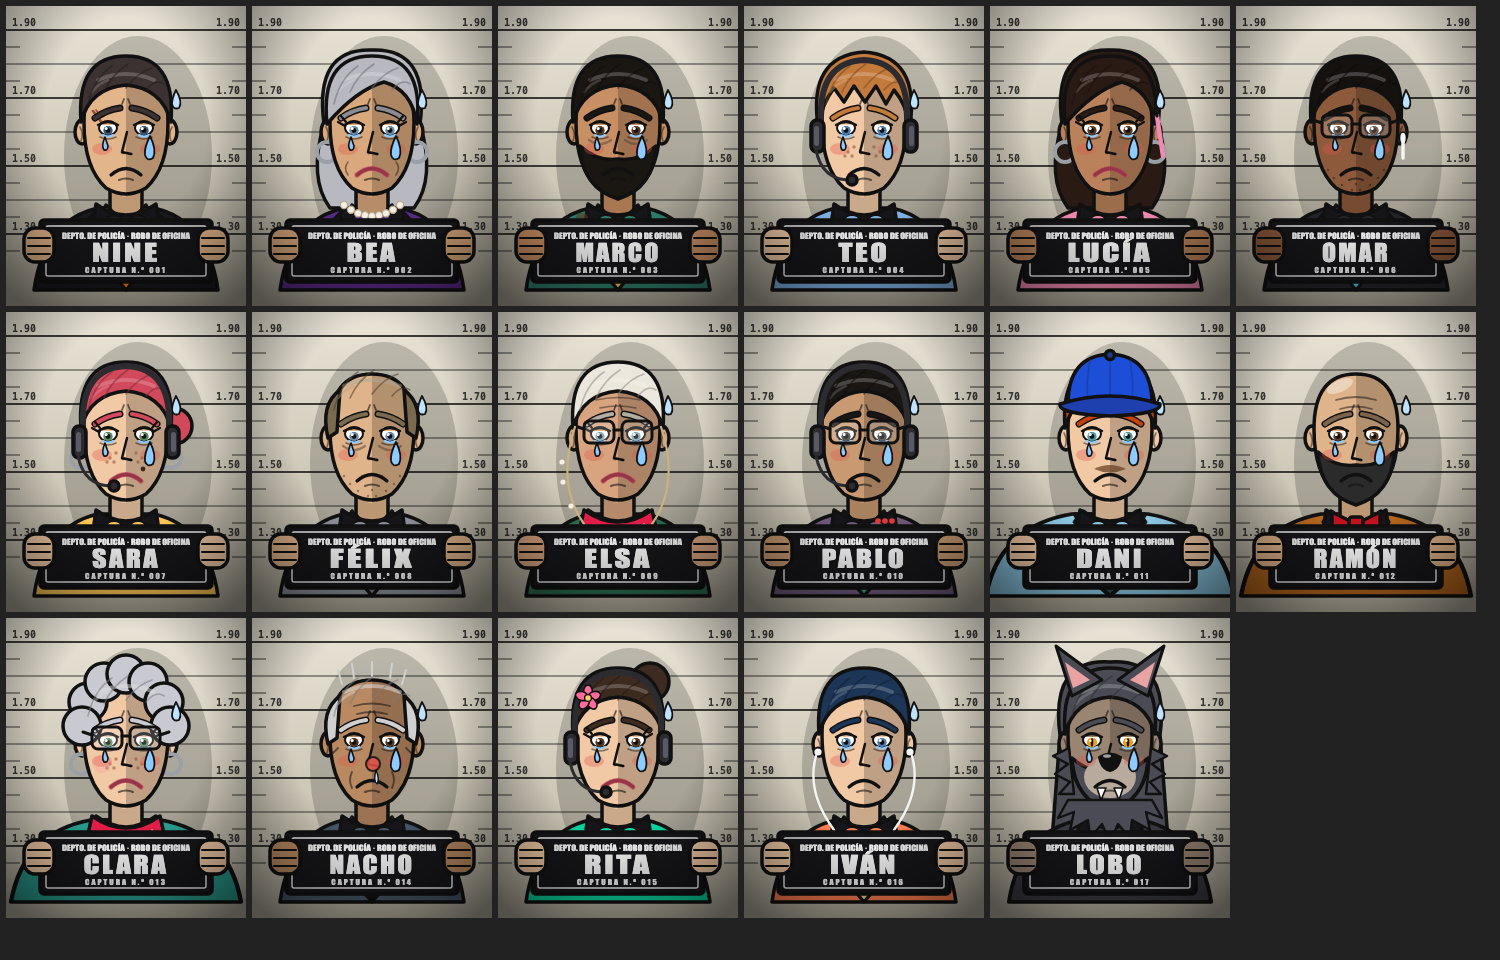
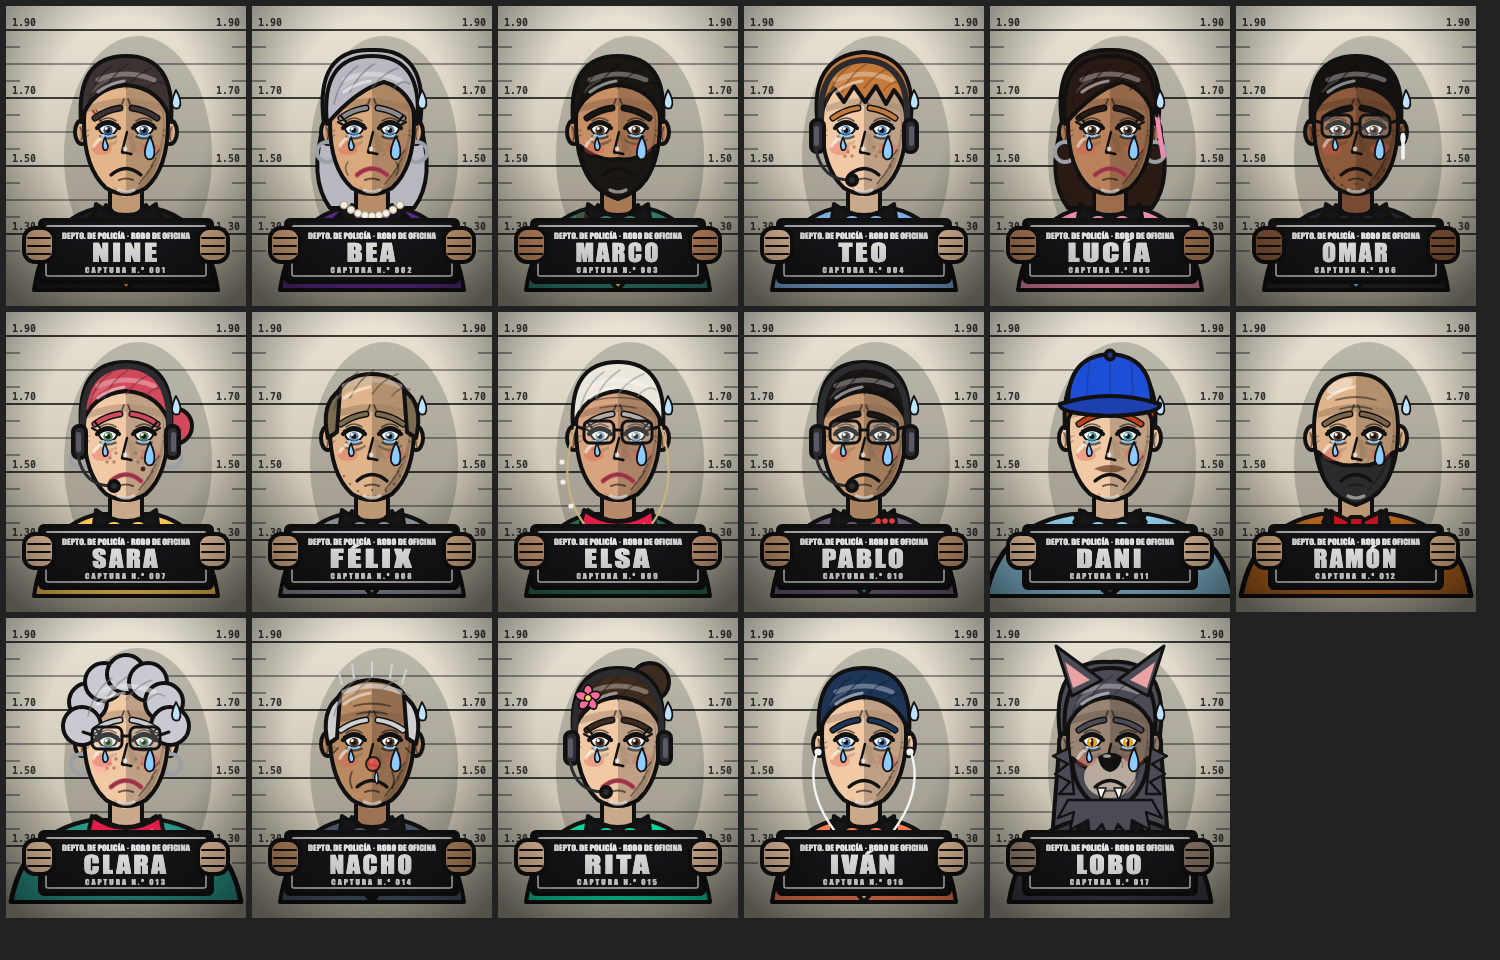
feat(fichaje): estilo cartoon con sombreado a dos tonos, brillos, párpados, rayado y orejas con relieve

diff --git a/src/poster.ts b/src/poster.ts
@@ -70,7 +70,11 @@ function finish(c: Character): string {
   const lips = look.skirt ? `<path d="M85 147 Q100 134 115 147" fill="none" stroke="#c2415a" stroke-width="5" opacity="0.75" stroke-linecap="round"/>` : ''
   const nostrils = `<ellipse cx="97" cy="125" rx="1.8" ry="1.2" fill="#000" opacity="0.5" stroke="none"/><ellipse cx="105" cy="126" rx="1.8" ry="1.2" fill="#000" opacity="0.5" stroke="none"/>`
   const strands = look.hairStyle === 'bald' ? '' : `<path d="M62 76 Q68 50 86 38 M78 64 Q86 46 102 36 M100 60 Q112 44 126 40 M120 62 Q130 50 138 56" fill="none" stroke="${shade(look.hair, -0.4)}" stroke-width="1.6" opacity="0.55" stroke-linecap="round"/>`
-  return `${strands}${eyes}${brows}${lashes}${lips}${nostrils}`
+  const dark = shade(look.skin, -0.3)
+  const lids = `<path d="M71 100 Q82 90 93 100 M107 100 Q118 90 129 100" fill="none" stroke-width="4.2"/><path d="M74 93 Q82 87 90 93 M110 93 Q118 87 126 93" fill="none" stroke-width="1.6" opacity="0.6"/><path d="M74 108 Q82 112 90 108 M110 108 Q118 112 126 108" fill="none" stroke-width="1.5" opacity="0.5"/>`
+  const hatch = `<path d="M119 148 l-6 8 M123 143 l-6 8 M127 137 l-6 8 M130 130 l-5 8 M133 122 l-5 7" fill="none" stroke-width="1.4" opacity="0.5"/><path d="M63 102 l-5 2 M63 107 l-5 3 M137 102 l5 2 M137 107 l5 3" fill="none" stroke-width="1.3" opacity="0.35"/>`
+  const gloss = `<path d="M72 64 Q84 55 98 53 M68 118 Q71 112 77 109 M92 162 Q100 166 108 162" fill="none" stroke="#fff" stroke-width="3.2" opacity="0.5" stroke-linecap="round"/><circle cx="99" cy="121" r="2.4" fill="#fff" opacity="0.6" stroke="none"/><path d="M109 118 q5 4 3 10" fill="none" stroke="${dark}" stroke-width="1.6" opacity="0.5"/>`
+  return `${strands}${eyes}${lids}${brows}${hatch}${gloss}${lashes}${lips}${nostrils}`
 }
 
 /** Rasgos propios de cada personaje: `face` va sobre la cara (bajo ojos y boca), `over` encima de todo y `neck` junto al cuello. */
@@ -171,7 +175,7 @@ function hair(look: Look, detail: Detail, layer: 'back' | 'front'): string {
   }
 }
 
-const STROKE = 'stroke="#111" stroke-width="3.5" stroke-linejoin="round" stroke-linecap="round"'
+const STROKE = 'stroke="#111" stroke-width="4" stroke-linejoin="round" stroke-linecap="round"'
 
 /** Capas del busto en un lienzo de 200 × 260, comunes al póster y a la foto de fichaje. */
 function layers(c: Character): { readonly behind: string; readonly head: string; readonly over: string; readonly sad: boolean } {
@@ -241,7 +245,14 @@ function layers(c: Character): { readonly behind: string; readonly head: string;
     <path d="M66 176 Q100 200 134 176 L138 194 Q100 220 62 194Z" fill="#e11d48"/>
     <path d="M80 192 L84 200 M96 197 L98 205 M112 197 L114 205 M126 190 L128 198" fill="none" stroke="#fda4af" stroke-width="2"/>
     <path d="M104 204 L128 202 L132 236 L108 240Z" fill="#be123c"/>` : ''
-  const sheen = look.hairStyle === 'bald' ? '' : `<path d="M72 52 Q100 40 128 52" fill="none" stroke="${shade(look.hair, 0.4)}" stroke-width="4" opacity="0.5" stroke-linecap="round"/>
+  const dark = shade(look.skin, -0.3)
+  const shading = `
+    <path d="M130 60 Q151 108 121 158 Q112 166 103 169 Q133 140 137 100 Q138 80 130 60Z" fill="#000" opacity="0.16" stroke="none"/>
+    <path d="M62 78 Q100 62 138 78 L138 84 Q100 72 62 84Z" fill="${dark}" opacity="0.55" stroke="none"/>
+    <path d="M101 105 L105 126 L111 123 L107 106Z" fill="${dark}" opacity="0.7" stroke="none"/>
+    <path d="M86 158 Q100 166 114 158 Q100 174 86 158Z" fill="${dark}" opacity="0.5" stroke="none"/>
+    <path d="M73 112 Q82 118 91 112 L91 115 Q82 122 73 115Z M109 112 Q118 118 127 112 L127 115 Q118 122 109 115Z" fill="${dark}" opacity="0.4" stroke="none"/>`
+  const sheen = look.hairStyle === 'bald' ? '' : `<path d="M72 52 Q100 40 128 52" fill="none" stroke="${shade(look.hair, 0.55)}" stroke-width="5" opacity="0.6" stroke-linecap="round"/>
       <path d="M66 64 Q72 56 82 52" fill="none" stroke="${shade(look.hair, 0.4)}" stroke-width="2.5" opacity="0.4" stroke-linecap="round"/>`
   return {
     behind: `
@@ -252,11 +263,13 @@ function layers(c: Character): { readonly behind: string; readonly head: string;
       <path d="M84 160 Q100 178 116 160 L116 184 Q100 194 84 184Z" fill="#000" opacity="0.16" stroke="none"/>
       <ellipse cx="56" cy="104" rx="7" ry="12" fill="${skin}"/>
       <ellipse cx="144" cy="104" rx="7" ry="12" fill="${skin}"/>
+      <ellipse cx="56" cy="105" rx="3" ry="7" fill="${dark}" opacity="0.45" stroke="none"/><ellipse cx="144" cy="105" rx="3" ry="7" fill="${dark}" opacity="0.45" stroke="none"/>
       <path d="M54 99 Q58 106 55 113 M146 99 Q142 106 145 113" fill="none" stroke-width="1.6" opacity="0.5"/>
       ${earrings}`,
     head: `
       <path d="${HEAD}" fill="${skin}"/>
       <path d="M100 40 Q142 40 142 95 Q142 140 120 160 Q110 167 100 169Z" fill="#000" opacity="0.2" stroke="none"/>
+      ${shading}
       ${beard}
       ${hair(look, detail, 'front')}
       ${sheen}
